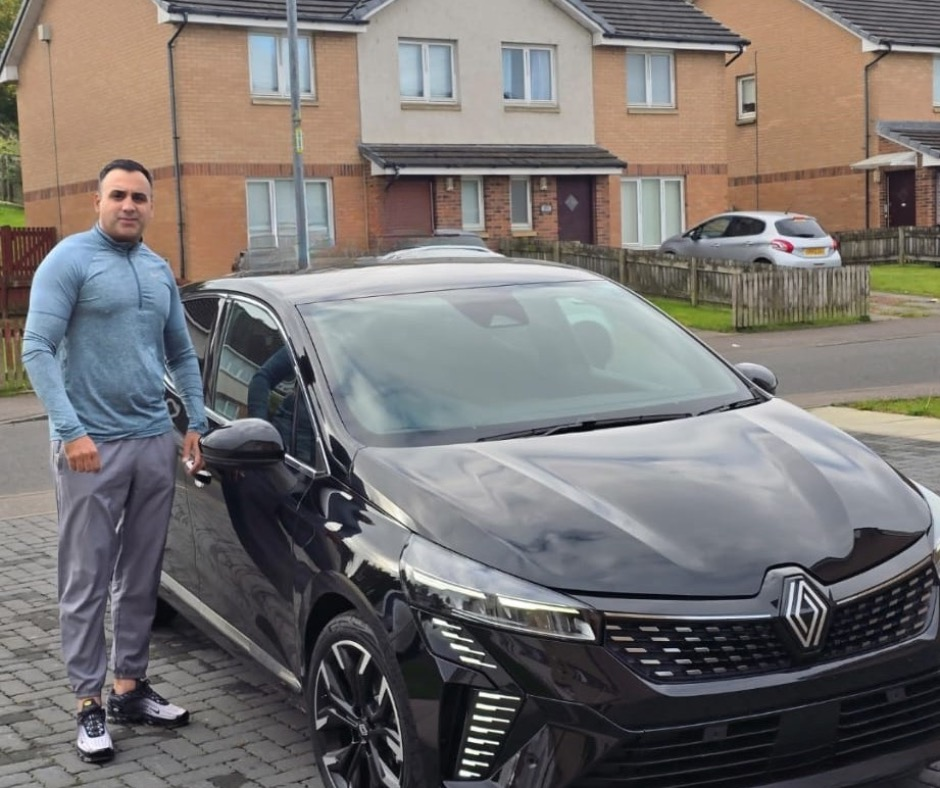
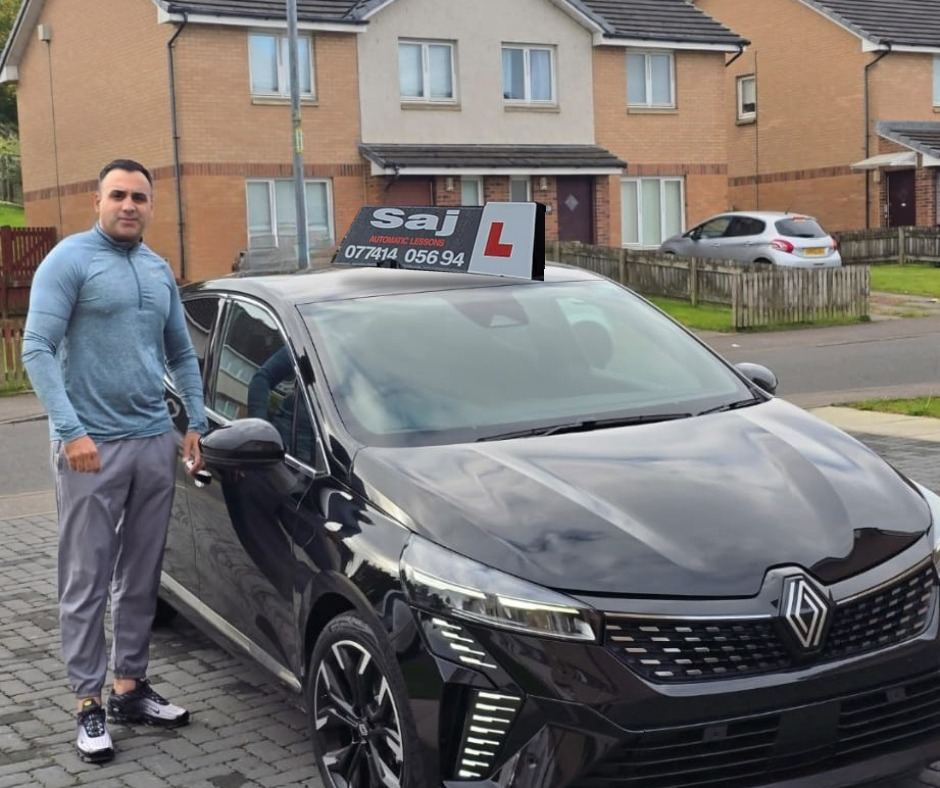
New hero photo, Saj headboard on lesson car photos, simplified areas, Instagram link

Changed region(s): [[0.3394, 0.2437, 0.5862, 0.3959]]

diff --git a/index.html b/index.html
@@ -90,7 +90,7 @@
           </ul>
         </div>
         <div class="hero-media">
-          <img src="images/hero.jpg" alt="A pupil holding their driving test pass certificate next to their Pull Up instructor" width="940" height="788" fetchpriority="high">
+          <img src="images/hero.jpg" alt="A Pull Up instructor with a pupil who has just passed their driving test" width="940" height="788" fetchpriority="high">
           <div class="hero-badge">
             <span class="hero-badge-icon">🎉</span>
             <div><strong>Another pass!</strong><span>Pull Up pupil, Glasgow</span></div>
@@ -230,7 +230,7 @@
         <div class="pass-grid" id="pass-grid">
           <figure><img src="images/pass-8.jpg" alt="Pupil with pass certificate beside the Pull Up car" loading="lazy" width="640" height="640"></figure>
           <figure><img src="images/pass-9.jpg" alt="Pupil and instructor with pass certificate" loading="lazy" width="640" height="640"></figure>
-          <figure><img src="images/pass-10.jpg" alt="Pupil holding pass certificate after passing at Shieldhall" loading="lazy" width="640" height="640"></figure>
+          <figure><img src="images/pass-10.jpg" alt="Pupil holding pass certificate beside the lesson car" loading="lazy" width="640" height="640"></figure>
           <figure><img src="images/pass-1.jpg" alt="Pupil with pass certificate and instructor" loading="lazy" width="700" height="587"></figure>
           <figure><img src="images/pass-11.jpg" alt="Pupil with pass certificate beside the Pull Up car" loading="lazy" width="640" height="640"></figure>
           <figure><img src="images/pass-12.jpg" alt="Pupil holding pass certificate in front of the lesson car" loading="lazy" width="640" height="640"></figure>
@@ -288,20 +288,16 @@
           <div class="section-head left">
             <p class="kicker">Areas covered</p>
             <h2>Driving lessons across Glasgow</h2>
-            <p class="section-sub">We cover the city centre and surrounding areas, and we're close to Anniesland, Shieldhall and Baillieston driving test centres.</p>
+            <p class="section-sub">Lessons available throughout Glasgow and the surrounding areas.</p>
           </div>
-          <ul class="area-list">
-            <li><strong>City Centre</strong></li>
-            <li><strong>Anniesland &amp; West End</strong><span>Anniesland Test Centre</span></li>
-            <li><strong>Partick, Hyndland &amp; Hillhead</strong></li>
-            <li><strong>Clydebank &amp; Knightswood</strong><span>Drumry, Duntocher</span></li>
-            <li><strong>Bishopbriggs &amp; Springburn</strong></li>
-            <li><strong>Shawlands, Pollokshields &amp; Southside</strong></li>
-            <li><strong>Govan &amp; Ibrox</strong><span>Shieldhall Test Centre</span></li>
-            <li><strong>Dennistoun, Bridgeton &amp; East End</strong><span>Baillieston Test Centre</span></li>
-            <li><strong>Rutherglen, Cambuslang &amp; Mount Vernon</strong></li>
-          </ul>
-          <p class="area-note">Not sure if we cover your area? <a href="#contact">Get in touch</a>. We're always expanding.</p>
+          <div class="area-card">
+            <span class="area-icon"><svg viewBox="0 0 24 24" aria-hidden="true"><path d="M12 2a7 7 0 0 0-7 7c0 5.2 7 13 7 13s7-7.8 7-13a7 7 0 0 0-7-7Zm0 9.5A2.5 2.5 0 1 1 12 6.5a2.5 2.5 0 0 1 0 5Z"/></svg></span>
+            <div>
+              <strong>Glasgow and surrounding areas</strong>
+              <span>Not sure if we cover you? Just ask.</span>
+            </div>
+          </div>
+          <a href="https://wa.me/447741405694?text=Hi%2C%20do%20you%20cover%20my%20area%20for%20driving%20lessons%3F" class="btn btn-outline" target="_blank" rel="noopener">Check if we cover your area</a>
         </div>
         <div class="map">
           <iframe title="Map of Glasgow" src="https://maps.google.com/maps?q=Glasgow&amp;z=11&amp;output=embed" loading="lazy" referrerpolicy="no-referrer-when-downgrade"></iframe>
@@ -406,9 +402,9 @@
         <img class="footer-logo" src="images/logo-stacked.png" alt="Pull Up Driving School" width="520" height="368">
         <p>Automatic driving lessons across Glasgow with DVSA-approved instructors.</p>
         <p class="footer-tagline">Pull Up. Drive safe. Go far.</p>
-        <!-- TODO: placeholder links. Replace each href="#" with his real profile URLs. -->
+        <!-- TODO: Facebook, TikTok and Google are placeholders. Replace each href="#" with his real profile URLs. -->
         <div class="socials">
-          <a href="#" aria-label="Pull Up Driving School on Instagram">
+          <a href="https://www.instagram.com/pullupdrivingschool/" target="_blank" rel="noopener" aria-label="Pull Up Driving School on Instagram">
             <svg class="icon-stroke" viewBox="0 0 24 24" aria-hidden="true"><rect x="3" y="3" width="18" height="18" rx="5"/><circle cx="12" cy="12" r="4"/><circle cx="17.5" cy="6.5" r="1.2" class="dot"/></svg>
           </a>
           <a href="#" aria-label="Pull Up Driving School on Facebook">

diff --git a/styles.css b/styles.css
@@ -131,7 +131,7 @@ svg { width: 1.2em; height: 1.2em; fill: currentColor; flex-shrink: 0; }
 .hero-badge-icon { width: 42px; height: 42px; display: grid; place-items: center; background: var(--gold-tint); border-radius: 10px; font-size: 1.3rem; }
 .hero-badge strong { display: block; color: var(--white); }
 .hero-badge span { font-size: .85rem; color: var(--muted); }
-.hero-price { position: absolute; left: -14px; top: 26px; background: var(--gold-grad); color: var(--bg); border-radius: 16px; padding: 12px 18px; text-align: center; box-shadow: var(--shadow-lg); line-height: 1.1; }
+.hero-price { position: absolute; right: -14px; top: 26px; background: var(--gold-grad); color: var(--bg); border-radius: 16px; padding: 12px 18px; text-align: center; box-shadow: var(--shadow-lg); line-height: 1.1; }
 .hero-price span { display: block; font-size: .75rem; font-weight: 700; }
 .hero-price strong { display: block; font-size: 2rem; font-weight: 800; }
 
@@ -209,12 +209,12 @@ svg { width: 1.2em; height: 1.2em; fill: currentColor; flex-shrink: 0; }
 .checklist li::before { content: "✓"; width: 26px; height: 26px; flex-shrink: 0; border-radius: 50%; background: var(--gold-grad); color: var(--bg); display: grid; place-items: center; font-weight: 800; font-size: .85rem; }
 
 /* Areas */
-.areas { display: grid; grid-template-columns: 1.1fr 1fr; gap: 48px; align-items: start; }
-.area-list { list-style: none; padding: 0; margin: 0; display: grid; grid-template-columns: 1fr 1fr; gap: 10px; }
-.area-list li { background: var(--surface); border: 1px solid var(--border); border-radius: 12px; padding: 12px 14px; font-size: .95rem; }
-.area-list strong { display: block; color: var(--white); font-weight: 700; }
-.area-list span { display: inline-block; margin-top: 4px; font-size: .8rem; color: var(--gold); font-weight: 700; }
-.area-note { margin-top: 18px; color: var(--muted); }
+.areas { display: grid; grid-template-columns: 1fr 1fr; gap: 48px; align-items: center; }
+.area-card { display: flex; align-items: center; gap: 16px; background: var(--surface); border: 1px solid var(--gold-line); border-radius: 16px; padding: 20px 22px; margin-bottom: 24px; }
+.area-card strong { display: block; color: var(--white); font-size: 1.15rem; }
+.area-card div > span { color: var(--muted); font-size: .95rem; }
+.area-icon { width: 48px; height: 48px; flex-shrink: 0; border-radius: 12px; background: var(--gold-grad); color: var(--bg); display: grid; place-items: center; }
+.area-icon svg { width: 24px; height: 24px; }
 .map { border-radius: 20px; overflow: hidden; border: 1px solid var(--border); box-shadow: var(--shadow); height: 100%; min-height: 420px; position: sticky; top: 100px; background: var(--surface); }
 .map iframe { border: 0; width: 100%; height: 100%; min-height: 420px; display: block; }
 
@@ -301,7 +301,7 @@ svg { width: 1.2em; height: 1.2em; fill: currentColor; flex-shrink: 0; }
   .hero-inner, .about, .areas, .contact, .learn { grid-template-columns: 1fr; }
   .hero-media { max-width: 560px; }
   .hero-badge { left: 12px; bottom: 16px; }
-  .hero-price { left: 12px; top: 12px; }
+  .hero-price { right: 12px; top: 12px; }
   .about { gap: 40px; }
   .map { position: static; min-height: 320px; }
   .map iframe { min-height: 320px; }
@@ -315,7 +315,7 @@ svg { width: 1.2em; height: 1.2em; fill: currentColor; flex-shrink: 0; }
   .section { padding: 72px 0; }
   .logo img { height: 38px; }
   .header-actions .btn { display: none; }
-  .lesson-grid, .price-grid, .area-list, .field-row { grid-template-columns: 1fr; }
+  .lesson-grid, .price-grid, .field-row { grid-template-columns: 1fr; }
   .learn { padding: 28px 22px; }
   .promo { flex-direction: column; align-items: flex-start; padding: 26px 22px; }
   .promo-price { flex-wrap: wrap; }

diff --git a/script.js b/script.js
@@ -60,7 +60,7 @@ document.getElementById("send-email").addEventListener("click", () => {
 
 // Fade sections in as they scroll into view
 const revealEls = document.querySelectorAll(
-  ".section-head, .lesson-card, .learn, .price-card, .pass-grid > *, .about > *, .area-list, .map, .faq details, .contact > *"
+  ".section-head, .lesson-card, .learn, .price-card, .pass-grid > *, .about > *, .area-card, .map, .faq details, .contact > *"
 );
 if ("IntersectionObserver" in window) {
   const io = new IntersectionObserver(
